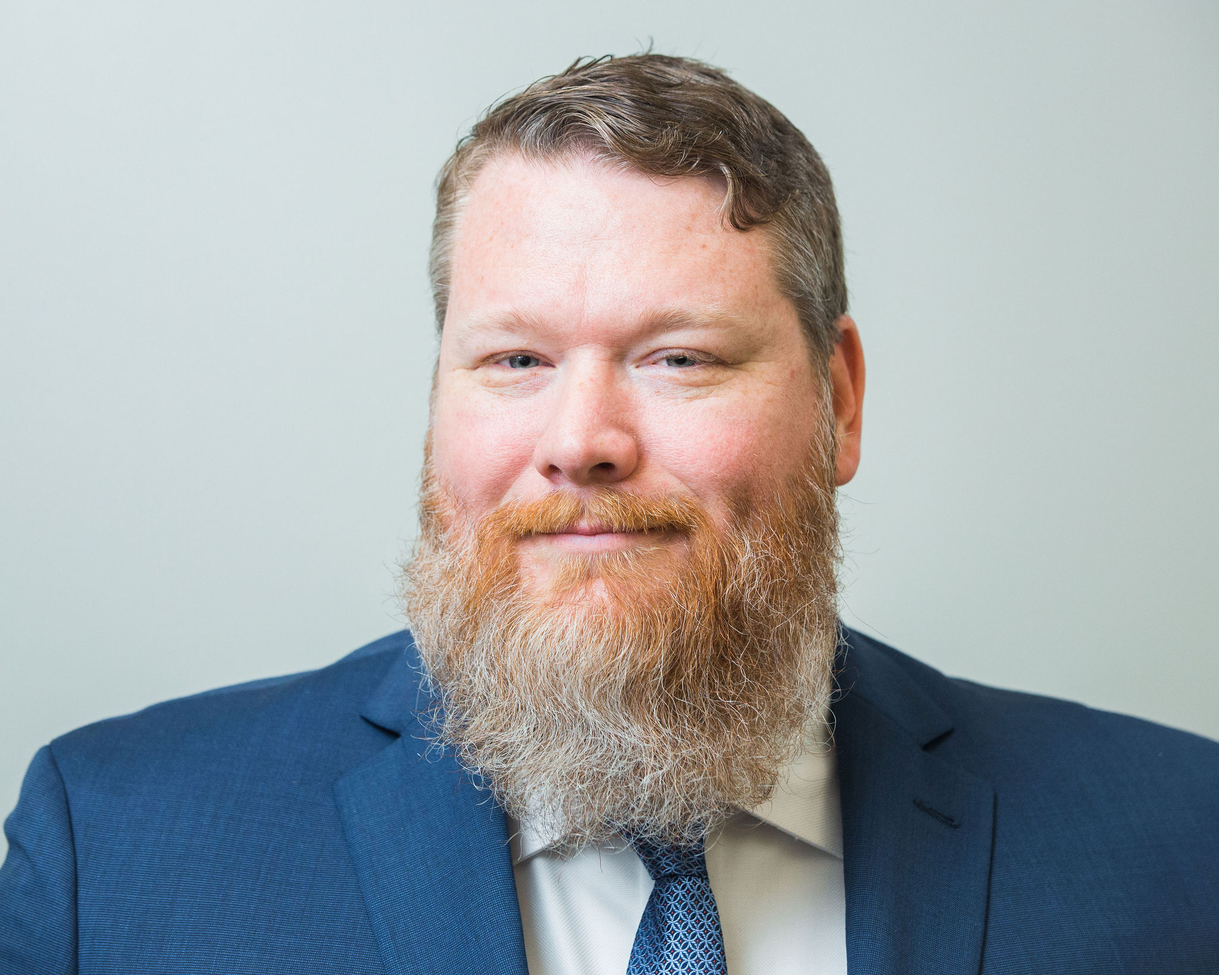
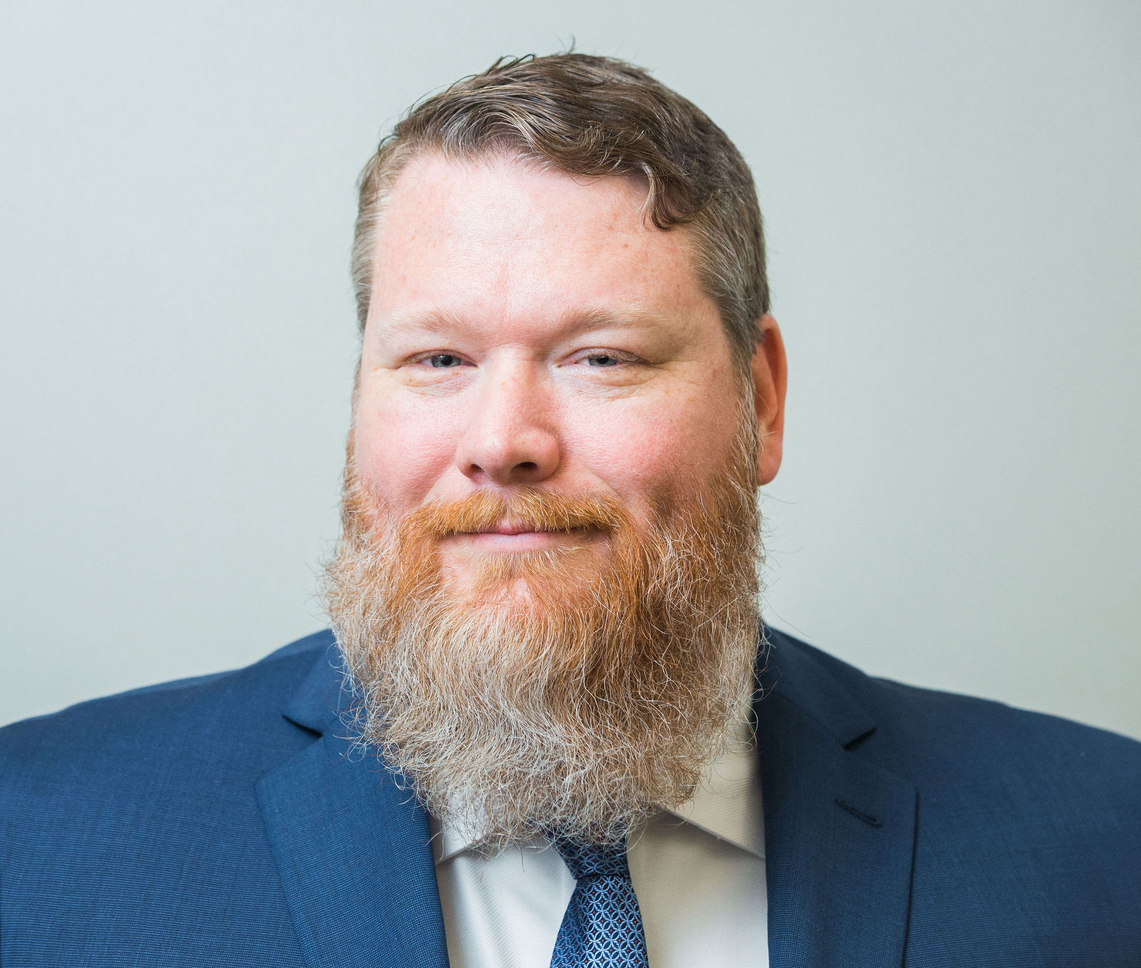
adjusted image file

diff --git a/css/site.css b/css/site.css
@@ -11,7 +11,7 @@ header {
 
 .main-image {
 	width: 250px;
-	height: 200px;
+	height: 212px;
 }
 
 .my-name {
